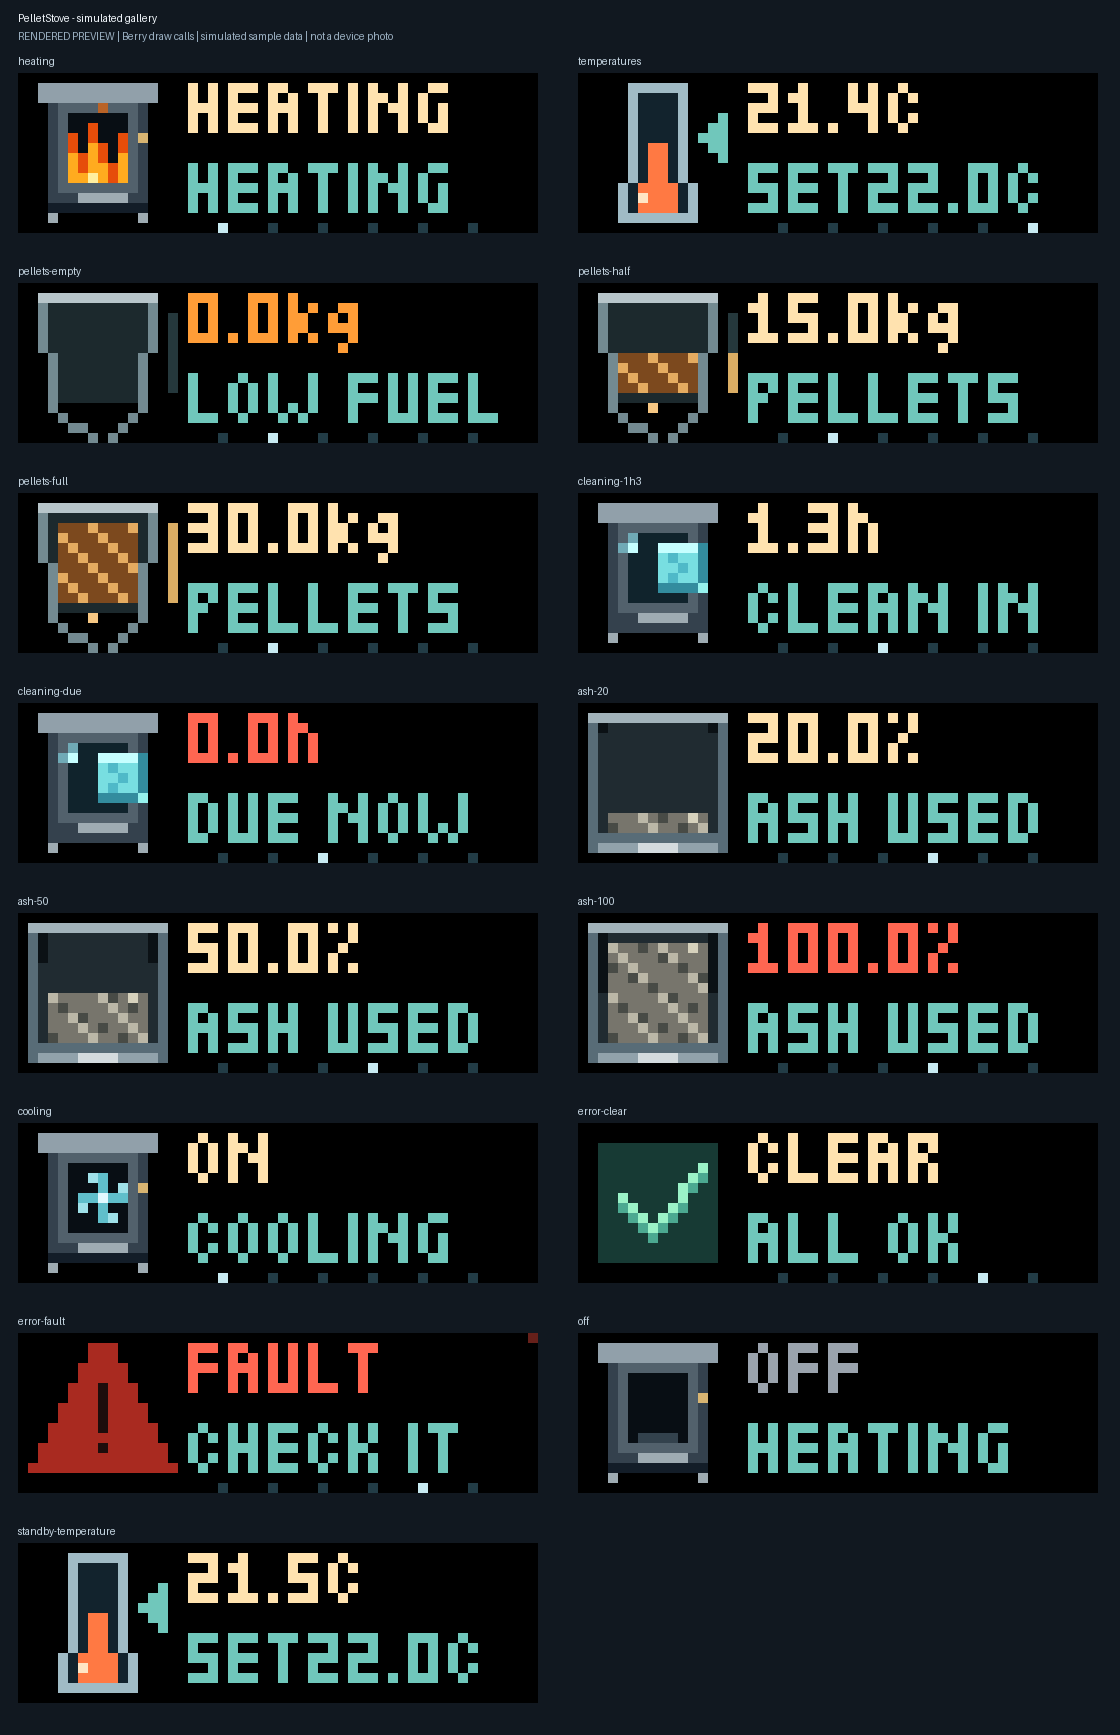
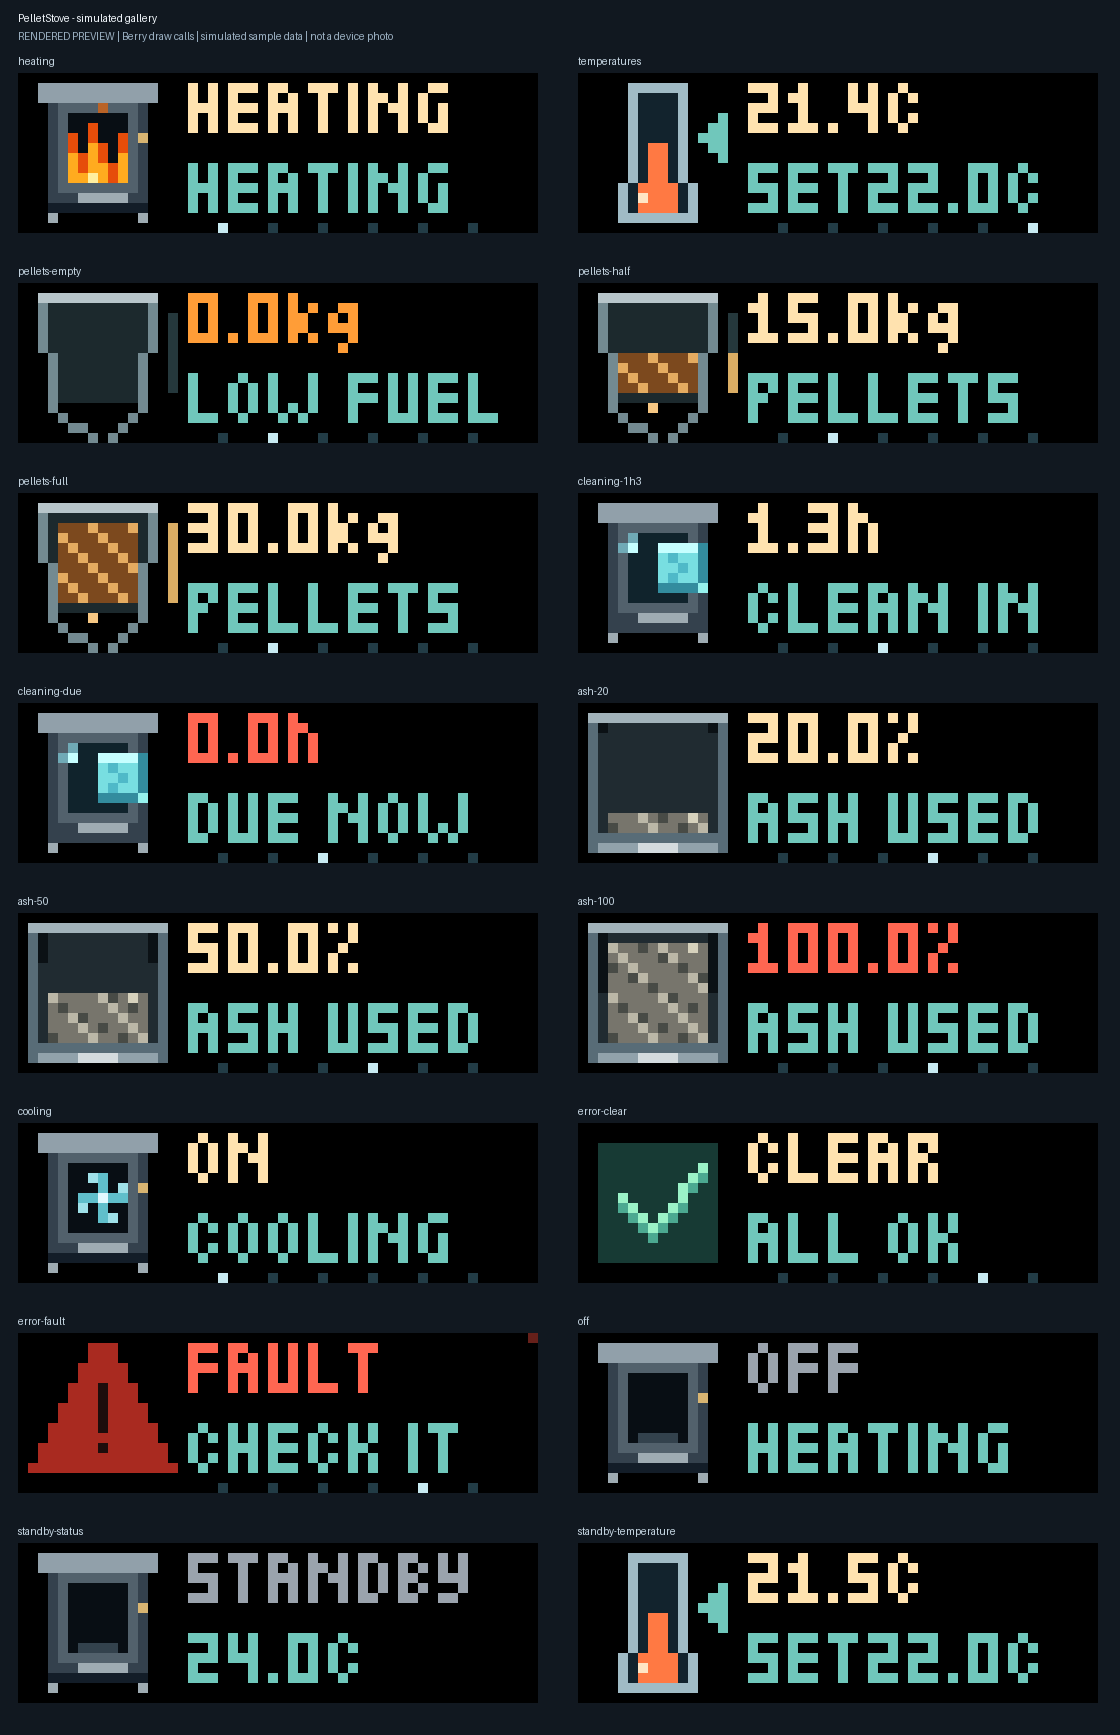
HaasSohn update

Changed region(s): [[0.5, 0.8715, 1.0, 0.996], [0.0312, 0.8715, 0.4375, 0.996]]

diff --git a/tools/render_media.py b/tools/render_media.py
@@ -267,10 +267,11 @@ def render_pellet() -> None:
         "error-clear",
         "error-fault",
         "off",
+        "standby-status",
         "standby-temperature",
     ]
     output = ROOT / "PelletStove"
-    animated = set(names) - {"pellets-empty", "error-clear", "off"}
+    animated = set(names) - {"pellets-empty", "error-clear", "off", "standby-status"}
     stills = render_app("PelletStove", ROOT / "work" / "pellet-captures", output, names, animated)
     save_still(
         stills["heating"],

diff --git a/tools/validate_media.py b/tools/validate_media.py
@@ -176,7 +176,7 @@ def check_zip() -> int:
 
 def main() -> None:
     solar_checked = check_images("SolarApp", 11, 11, 20000)
-    pellet_checked = check_images("PelletStove", 15, 12, 30000)
+    pellet_checked = check_images("PelletStove", 16, 12, 30000)
     check_manifest_sources()
     package_files = check_zip()
     print(f"PASS: {solar_checked + pellet_checked} Solar/Pellet image assets; source hashes; ZIP entries={package_files}")

diff --git a/PelletStove/README.md b/PelletStove/README.md
@@ -21,17 +21,17 @@ Animation uses elapsed milliseconds, so its speed does not depend on the draw fr
 
 Urgent blinking is 500 ms on / 500 ms off, independent of animation speed and the configurable early-warning thresholds. The descriptive label remains visible during blinking. Stale readings show `-- / STALE` steadily. Crossing either urgent threshold also queues that view with higher priority than an ordinary warning.
 
-**Power and standby gates:** `onoff` and `stove_mode` are always monitored. A valid **false** error reading is also always accepted to retire an old fault, even before either control arrives. By default, every other input is accepted and displayed only when a fresh `onoff` is **true/Yes** and a fresh mode is **not `standby`** (case-insensitive, surrounding whitespace ignored). The optional standby setting below makes an exception for the two temperatures. Missing, expired, or false power closes the gate. A non-standby mode alone never implies power is on. Other mode names, including `off`, are allowed only if the separate power reading is true.
+**Power and standby gates:** `onoff` and `stove_mode` are always monitored. A valid **false** error reading is also always accepted to retire an old fault, even before either control arrives. The current room temperature continues updating during standby while power and mode are fresh and power is **true/Yes**. Every other measurement normally requires a fresh non-standby mode (case-insensitive, surrounding whitespace ignored). The optional standby-skip setting below also monitors the target temperature. Missing, expired, or false power closes the gate. A non-standby mode alone never implies power is on. Other mode names, including `off`, are allowed only if the separate power reading is true.
 
-When power is false, only `OFF` and the latest usable mode are shown. Power true with standby shows `STANDBY / PAUSED`. Measurements and faults stop rotating, and the flame stops. `POWER? / NO DATA` means the new required power topic has not arrived; `POWER? / STALE` means it expired. Missing/expired mode with power on shows `MODE? / NO DATA` or `STALE`.
+When power is false, only `OFF` and the latest usable mode are shown. Power true with standby shows **`STANDBY` on top and the current temperature below**, for example `24.0C`. This ordinary standby page remains available when the separate temperature page is disabled. Other measurement/fault pages stop rotating, and the flame stops. A missing current temperature shows `--`; an expired reading shows `STALE`, never a stale number presented as current. `POWER? / NO DATA` means the new required power topic has not arrived; `POWER? / STALE` means it expired. Missing/expired mode with power on shows `MODE? / NO DATA` or `STALE`.
 
 The cooling fan follows the fresh reported `cooling` phase. It can therefore remain animated on `OFF / COOLING` while measurement pages are hidden, reflecting the reported cooldown phase. It is an illustration of that phase, not a measured fan speed. Cooling never shows flames or falling pellets; a stale cooling mode stops the fan.
 
-Closing either gate freezes measurement values/timestamps internally and marks them expired, except temperatures monitored with the optional standby setting and explicit false error readings. On resuming, a new reading is required for expired values. A previously accepted fault is retained internally and, once the gates reopen, can appear as `FAULT / STALE` until a valid false is received. `STALE` means the display lacks a fresh accepted error reading; it does not mean Homey currently reports a fault. A false received while OFF/standby clears the stored fault and its reminder without opening measurement pages. The clear itself can become stale while gated, so a fresh error reading is still required for a confirmed `CLEAR / ALL OK` page after resuming. While OFF/paused even the fault page is hidden. On restart, values start unknown; the app does not persist old stove readings.
+Closing either gate freezes measurement values/timestamps internally and marks them expired, except current temperature during powered-on standby, target temperature monitored with the optional standby setting, and explicit false error readings. On resuming, a new reading is required for expired values. A previously accepted fault is retained internally and, once the gates reopen, can appear as `FAULT / STALE` until a valid false is received. `STALE` means the display lacks a fresh accepted error reading; it does not mean Homey currently reports a fault. A false received while OFF/standby clears the stored fault and its reminder without opening measurement pages. The clear itself can become stale while gated, so a fresh error reading is still required for a confirmed `CLEAR / ALL OK` page after resuming. While OFF/paused even the fault page is hidden. On restart, values start unknown; the app does not persist old stove readings.
 
 ### Optional: skip standby except temperature changes
 
-Enable **Skip standby except temperature changes** in the script's **Display** settings. Its default is **Off**, preserving the existing standby page. Keep the script enabled in AWTRIX: this option uses the official [`should_show()` hook](https://blueforcer.github.io/awtrix-ng/tc002/guides/scripting/several-apps/) to skip display turns while MQTT callbacks and background monitoring continue. Fully disabling the script would prevent it from detecting the next update.
+Enable **Skip standby except temperature changes** in the script's **Display** settings. Its default is **Off**, showing the ordinary `STANDBY` / current-temperature page. Keep the script enabled in AWTRIX: this option uses the official [`should_show()` hook](https://blueforcer.github.io/awtrix-ng/tc002/guides/scripting/several-apps/) to skip display turns while MQTT callbacks and background monitoring continue. Fully disabling the script would prevent it from detecting the next update.
 
 With fresh **power Yes** and **mode standby**, only current and target temperatures continue updating. The app stays out of rotation until either numerical value changes. At the next available turn it shows **only the temperature page**, for **Seconds for important changes** (default eight seconds), then skips again. Repeated identical readings do not trigger another turn. Multiple changes before a turn are combined into the latest pair of values; a change during that turn queues another temperature turn. Select stays on temperature during these visits.
 
@@ -90,7 +90,7 @@ Boolean inputs (`onoff`, `stove_status`, `stove_error_state`) accept true/false,
 
 When a valid false is accepted after a true error, the script logs `PelletStove: fault cleared` and removes the old fault's priority/reminder. With both display gates open, it immediately changes a visible error page to `CLEAR / ALL OK`; if the clear-error view is disabled, it exits that page immediately. A false received while OFF/standby, with expired controls, or before the controls arrive also clears the stored fault. It does not expose measurement pages or reopen the gates. A missing or invalid error reading never silently clears an old true fault. New true error readings still require both gates to be open.
 
-**Send power and mode first, then the other seven messages.** If your Flow runs actions concurrently, use the combined JSON option below so the script evaluates both controls and readings atomically. Continue publishing power, mode, and the current error Boolean while off or in standby, so the display can detect resuming and receive fault clearance. Optional Flow conditions can suppress other traffic while power is false or mode is standby. If you enable standby temperature turns, keep both temperature actions publishing during standby. The script enforces its input gates itself too.
+**Send power and mode first, then the other seven messages.** If your Flow runs actions concurrently, use the combined JSON option below so the script evaluates both controls and readings atomically. Continue publishing power, mode, and the current error Boolean while off or in standby, so the display can detect resuming and receive fault clearance. Optional Flow conditions can suppress other traffic while power is false or mode is standby. Always keep the current-temperature action publishing during standby; also publish the target temperature if you enable standby temperature turns. The script enforces its input gates itself too.
 
 If your publisher supports retained messages, enable retention so readings are available after a display restart. Separate retained topics can arrive in any order: measurements arriving before usable power and mode are ignored, except an explicit false error reading; the next scheduled refresh supplies the other readings again. There can similarly be a refresh-cycle delay when resuming from OFF/standby. A single retained JSON snapshot avoids that ordering problem.
 
@@ -123,7 +123,7 @@ Set **Combined JSON topic** to, for example, `homey/pellet_stove/state`. The scr
 }
 ```
 
-Keys are the exact capability IDs. Power and mode are processed first regardless of JSON key order. A snapshot whose power is false updates only those controls and an explicit false error reading. A standby snapshot also accepts temperatures when the optional standby setting is enabled and power is true. Missing fields preserve their previous values and timestamps; invalid fields do not become zero. Top-level fields may also use `{"value": ...}` envelopes. Scalar topics accept plain values, JSON primitives, or `{"value": ...}`. Numeric strings are accepted; invalid values are logged without printing the payload. Send only one stove per configured topic/filter. This JSON structure uses top-level capability keys, not the full Homey device-export structure containing `capabilitiesObj`.
+Keys are the exact capability IDs. Power and mode are processed first regardless of JSON key order. A snapshot whose power is false updates only those controls and an explicit false error reading. With power true, a standby snapshot accepts current temperature regardless of the skip setting, and target temperature when standby-skip is enabled. Missing fields preserve their previous values and timestamps; invalid fields do not become zero. Top-level fields may also use `{"value": ...}` envelopes. Scalar topics accept plain values, JSON primitives, or `{"value": ...}`. Numeric strings are accepted; invalid values are logged without printing the payload. Send only one stove per configured topic/filter. This JSON structure uses top-level capability keys, not the full Homey device-export structure containing `capabilitiesObj`.
 
 ## 3. Set display preferences
 
@@ -142,7 +142,7 @@ Keys are the exact capability IDs. Power and mode are processed first regardless
 | Show error state when clear | On | Hide the clear-error page if desired. A last-known true fault remains eligible while both gates are open. |
 | Skip standby except temperature changes | Off | Skip standby turns; with power Yes, a changed current or target temperature allows one temperature-only turn. MQTT stays active. |
 
-An empty individual MQTT topic disables that input's subscription, but power and mode are required for measurement views. The standby temperature option is the only exception to the non-standby requirement for display pages; power Yes is always required. Fault clearance is accepted independently of these display gates. Timeouts measure time since the script **received** the value, not time since the stove measured it. A retained message can be old when received; the publisher is responsible for keeping retained state current. With timeout `0`, values can remain old indefinitely between updates while the gates stay open, which is intentional for change-only Flows.
+An empty individual MQTT topic disables that input's subscription, but power and mode are required for measurement views. The ordinary standby page shows current temperature; the optional standby temperature turn can show both temperatures. Power Yes is always required for either. Fault clearance is accepted independently of these display gates. Timeouts measure time since the script **received** the value, not time since the stove measured it. A retained message can be old when received; the publisher is responsible for keeping retained state current. With timeout `0`, values can remain old indefinitely between updates while the gates stay open, which is intentional for change-only Flows.
 
 **Unit boundary:** use Homey capability values, not raw stove API fields. The separate Homey driver converts raw `cleaning_in` minutes to hours and raw `maintenance_in` to an inverted ash-usage percentage. Do not divide hours again or invert the capability percentage. The target range is the driver's 5–35°C; the display accepts actual temperatures from −40 to 100°C.
 
@@ -151,7 +151,7 @@ An empty individual MQTT topic disables that input's subscription, but power and
 1. Run your publishing Flow once with fresh power true/Yes and a non-standby mode. Confirm the six views match Homey, including actual/target temperatures, hours, kg and ash percentage. Heating animation also requires `stove_status=true`. Power Yes + mode cooling + status cross should show `ON / COOLING` with the spinning fan and no fire. Power No shows only `OFF` and the mode, keeping the fan if that fresh mode is cooling.
 2. Change the target through your normal Homey controls and confirm the temperature page is brought forward after the current view. Small actual-temperature changes should update the number without repeated preemption.
    The cyan arrow beside the thermometer marks the target. Numeric `--` means no usable value: publish both temperatures after fresh power true and non-standby mode (or in the same JSON snapshot).
-3. With the standby option off, when mode becomes standby or power becomes No, confirm the measurement pages are hidden, the flame stops, and metric values stop updating. On resuming, confirm fresh readings are needed. Then enable **Skip standby except temperature changes**: with power Yes and standby, publish an unchanged temperature pair and confirm no display turn; change either temperature and confirm one temperature-only turn, followed by skipping. Repeating that pair should not trigger another turn. Power No must still block it. Use isolated test topics for simulated transitions; no need to change the physical stove just to test a display.
+3. With the standby option off, confirm mode standby shows `STANDBY` and a live current temperature while other measurement pages stay hidden and the flame stops. Power No must hide and stop accepting temperature readings too. On resuming, confirm fresh readings are needed. Then enable **Skip standby except temperature changes**: with power Yes and standby, publish an unchanged temperature pair and confirm no display turn; change either temperature and confirm one temperature-only turn, followed by skipping. Repeating that pair should not trigger another turn. Power No must still block it. Use isolated test topics for simulated transitions; no need to change the physical stove just to test a display.
 4. For an isolated MQTT display test, configure a separate test topic in the script and send sample JSON there. Check an introduced true fault, its repeat, and an explicit false (or `✗`) with power true and non-standby mode. The script log should say `fault cleared`; the page should show `CLEAR / ALL OK`, with no repeating red fault. Also check a true fault followed by OFF/standby, then false before resuming: the old fault must not return after the gates reopen. Republish false after resuming to confirm `CLEAR / ALL OK`. Then restore your production input topic. Do not send test commands to the stove's own control topics.
 5. With timeout 180, stop only the test publisher: after three minutes the expired power/mode hides measurement views and the first page shows `POWER? / STALE`. If you keep controls refreshed but stop one metric, its page should show `-- / STALE` (a retained true fault instead stays `FAULT / STALE`). Restore the publisher and verify recovery.
 6. On isolated test topics with power Yes and non-standby mode, check cleaning at `1` h is steady and `0.9` h blinks; ash at `90`% is steady and `90.1`% blinks. Also check pellets at `0`, `15`, `30` kg show an empty, half and full hopper with the capacity set to 30. Blinking is half a second visible, half a second hidden; the page label stays visible.
@@ -175,4 +175,4 @@ python tools/render_preview.py
 
 The Berry test writes `tools/preview-frames.json`, `tools/progress-frames.json`, `tools/cooling-frames.json` and `tools/cleaning-frames.json` (ignored by Git). The renderer consumes them to create the PNG/GIF previews. Font data and its license/provenance live in `../source-notices/`; they are not dependencies of the clock script. No npm production dependencies, Homey capability migrations, manifest edits, or Homey build changes are required.
 
-The input checks use the committed `input-contract.json` snapshot. They do not need a neighboring Homey repository. The source script includes the standby temperature option and the correction that accepts explicit fault clearance while display gates are closed.
+The input checks use the committed `input-contract.json` snapshot. They do not need a neighboring Homey repository. The source script includes the live current-temperature standby page, the optional temperature-change standby turns, and the correction that accepts explicit fault clearance while display gates are closed.

diff --git a/MEDIA.md b/MEDIA.md
@@ -34,7 +34,7 @@ Suggested AWTRIX Hub caption:
 
 SolarApp scenes use the requested sample values: 2500 W production, 12345 Wh daily yield, 900 W house load, 76% SOC, +850 W battery charging, and −420 W grid export. Signed battery/grid values are interpreted using the script's default `charge_positive` and `import_positive` conventions. The house-unknown scene uses 0 W solar, 0 W battery, 0 W grid, and 3000 W house load; the lightning icon is the script's source-unknown activity graphic and does not infer an energy split.
 
-PelletStove scenes use the Berry harness's sample state: on/off enabled, heating mode, 21.4°C actual / 22.0°C target, 8.4 kg pellets, 32.5 h cleaning interval, 45% ash usage, and clear error unless the scene says otherwise. The finished standby scene sets `standby_skip=true` (the setting defaults to `false`), requires power `Yes`, enters mode `STANDBY`, establishes the 21.4°C / 22.0°C baseline, then feeds a changed 21.5°C reading; the captured `SET22.0C` temperature-only visit is the source behavior. It does not claim that the physical script was skipped on a device.
+PelletStove scenes use the Berry harness's sample state: on/off enabled, heating mode, 21.4°C actual / 22.0°C target, 8.4 kg pellets, 32.5 h cleaning interval, 45% ash usage, and clear error unless the scene says otherwise. The `standby-status` still shows the ordinary `STANDBY` page with live current temperature 24.0C. The separate optional standby scene sets `standby_skip=true` (the setting defaults to `false`), requires power `Yes`, enters mode `STANDBY`, establishes the 21.4°C / 22.0°C baseline, then feeds a changed 21.5°C reading; the captured `SET22.0C` temperature-only visit is the source behavior. It does not claim that the physical script was skipped on a device.
 
 ## Provenance
 

diff --git a/README.md b/README.md
@@ -9,7 +9,7 @@ Standalone MQTT display apps for the **Ulanzi TC002 / AWTRIX NG, 52 x 16 pixels*
 
 **SolarApp** rotates through solar production/yield, battery charge, measured house load, and signed grid import/export. Solar is skipped when production is zero or stale. The house source graphic is illustrative; it does not calculate an energy split.
 
-**PelletStove** rotates through stove mode/status, current/target temperatures, pellets, cleaning, ash usage, and errors. It includes cooling-fan and microfiber-cloth animations, proportional 30 kg fuel levels, urgent cleaning/ash blinking, and the optional temperature-only standby turn. Valid false error readings clear old faults even in standby, OFF, or before fresh power/mode messages arrive.
+**PelletStove** rotates through stove mode/status, current/target temperatures, pellets, cleaning, ash usage, and errors. It includes cooling-fan and microfiber-cloth animations, proportional 30 kg fuel levels, urgent cleaning/ash blinking, a standby page showing current room temperature, and the optional temperature-only standby turn. Valid false error readings clear old faults even in standby, OFF, or before fresh power/mode messages arrive.
 
 Paste only the chosen `.ax` file into the AWTRIX Scripts editor. MQTT publishing is configured in Homey or another publisher. These scripts subscribe to data; they do not control the stove or inverter.
 
